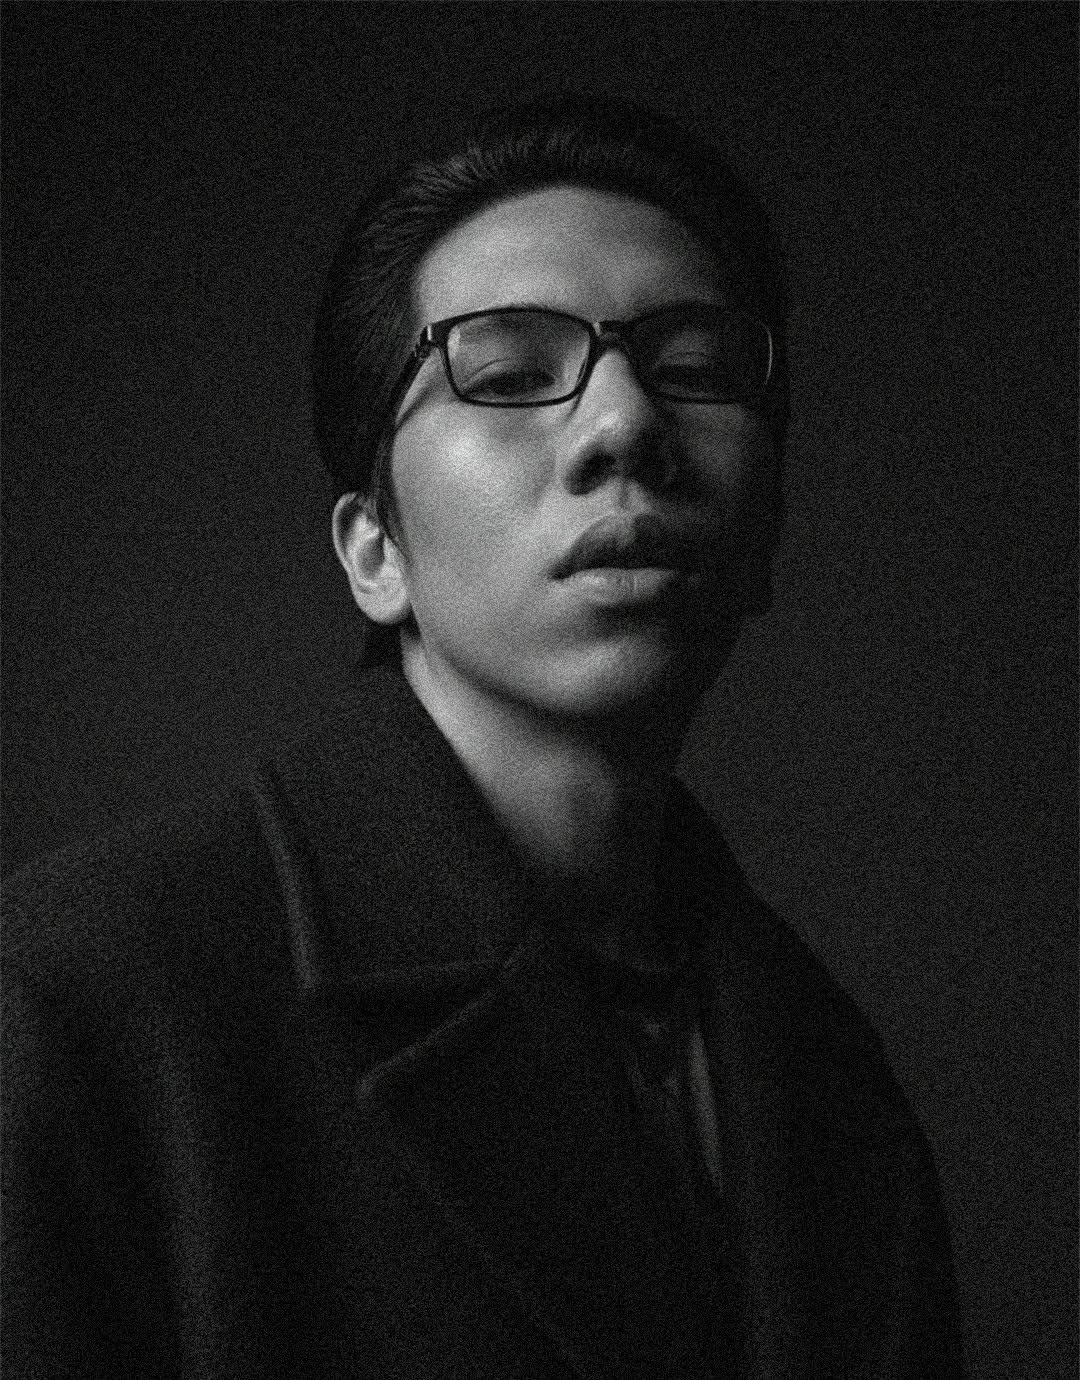
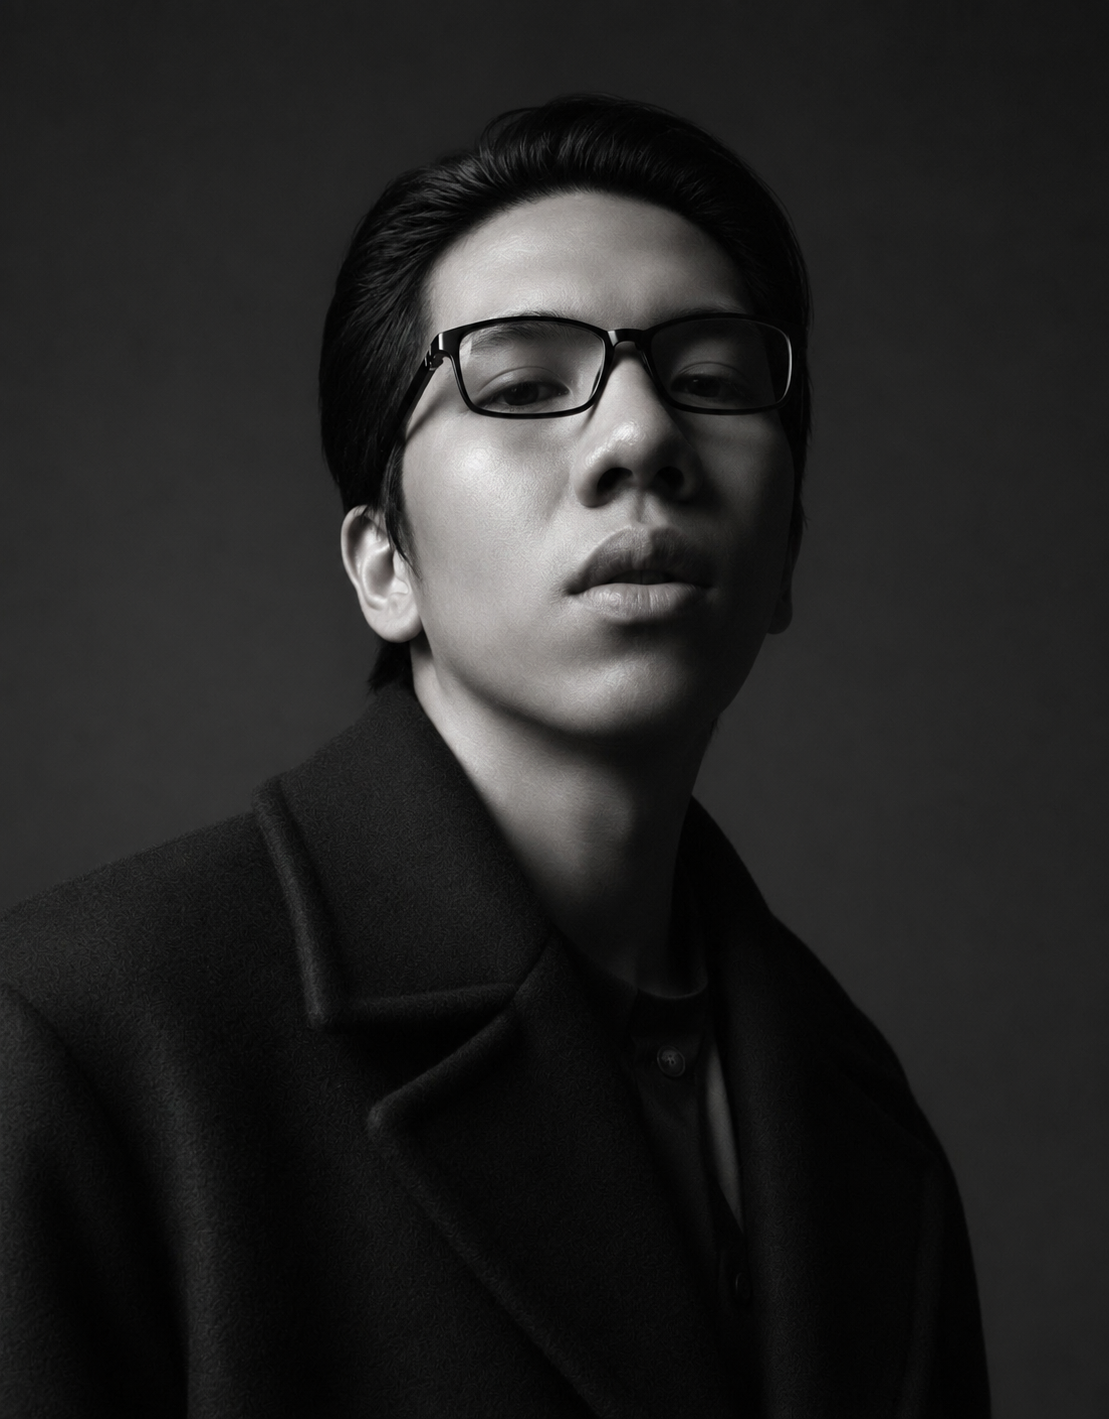
sleek skills page

diff --git a/src/components/About.jsx b/src/components/About.jsx
@@ -3,6 +3,7 @@ import { createPortal } from "react-dom";
 import { AnimatePresence, motion } from "framer-motion";
 import SectionTitle from "./SectionTitle";
 import { profile, skills, experience } from "../data/content";
+import { skillIcons } from "../data/skillIcons";
 import { EASE, VIEWPORT } from "./motion/motion-presets";
 import { useClickSound } from "../hooks/useClickSound";
 import "./About.css";
@@ -86,11 +87,15 @@ export default function About() {
                 <li key={g.group} className="skills__group">
                   <span className="label skills__group-title">{g.group}</span>
                   <ul className="skills__items">
-                    {g.items.map((s) => (
-                      <li key={s} className="skills__item">
-                        {s}
-                      </li>
-                    ))}
+                    {g.items.map((s) => {
+                      const Icon = skillIcons[s];
+                      return (
+                        <li key={s} className="skills__item">
+                          {Icon && <Icon className="skills__icon" aria-hidden="true" />}
+                          {s}
+                        </li>
+                      );
+                    })}
                   </ul>
                 </li>
               ))}

diff --git a/src/data/skillIcons.js b/src/data/skillIcons.js
@@ -1,0 +1,35 @@
+import {
+  SiC,
+  SiCplusplus,
+  SiPhp,
+  SiJavascript,
+  SiReact,
+  SiVite,
+  SiNextdotjs,
+  SiCss,
+  SiNodedotjs,
+  SiSupabase,
+  SiMysql,
+  SiGit,
+} from "react-icons/si";
+import { FaJava } from "react-icons/fa";
+
+/**
+ * Maps a skill label (exact string from content.js) to its brand icon.
+ * Keys must match the strings in `skills[].items`.
+ */
+export const skillIcons = {
+  Java: FaJava,
+  C: SiC,
+  "C++": SiCplusplus,
+  PHP: SiPhp,
+  JavaScript: SiJavascript,
+  React: SiReact,
+  Vite: SiVite,
+  "Next.js": SiNextdotjs,
+  "CSS Architecture": SiCss,
+  "Node.js": SiNodedotjs,
+  Supabase: SiSupabase,
+  mySQL: SiMysql,
+  Git: SiGit,
+};

diff --git a/src/components/ThemeToggle.css b/src/components/ThemeToggle.css
@@ -6,11 +6,10 @@
   align-items: center;
   justify-content: center;
   color: var(--c-primary);
-  border: 1px solid var(--c-line-strong);
+  border: none;
   border-radius: var(--r-md);
   background: transparent;
   transition:
-    border-color var(--dur) var(--ease),
     color var(--dur) var(--ease),
     background-color var(--dur) var(--ease),
     transform var(--dur) var(--ease);
@@ -28,7 +27,6 @@
 }
 
 .theme-toggle:hover {
-  border-color: var(--c-primary);
   background: var(--c-surface);
 }
 

diff --git a/src/components/About.css b/src/components/About.css
@@ -59,11 +59,21 @@
 }
 
 .skills__item {
+  display: inline-flex;
+  align-items: center;
+  gap: 7px;
   border: 1px solid var(--c-line-strong);
   padding: 4px 10px;
   font-family: var(--f-mono);
   font-size: var(--t-label);
   letter-spacing: 0.08em;
+}
+
+.skills__icon {
+  width: 14px;
+  height: 14px;
+  flex-shrink: 0;
+  color: currentColor;
 }
 
 .about__timeline {
